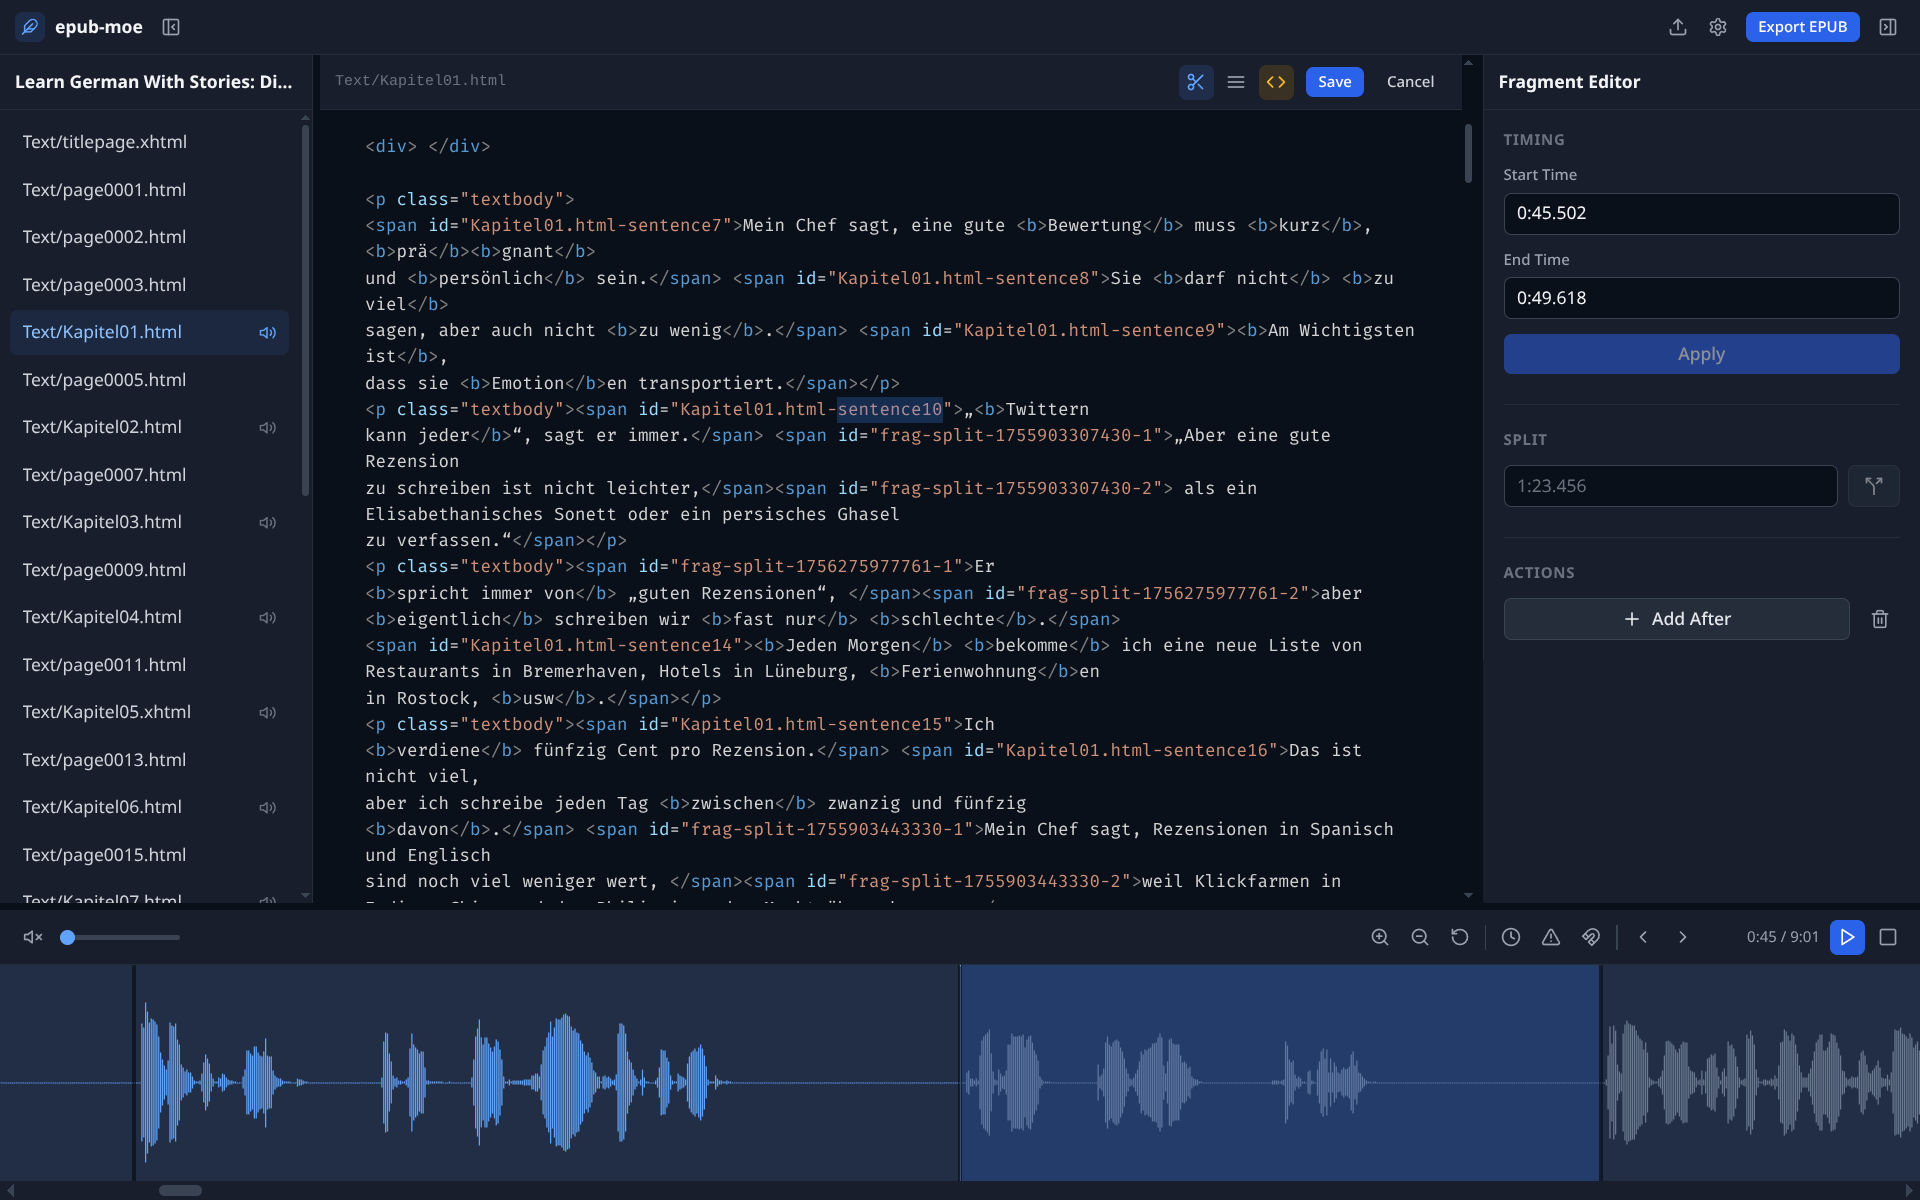
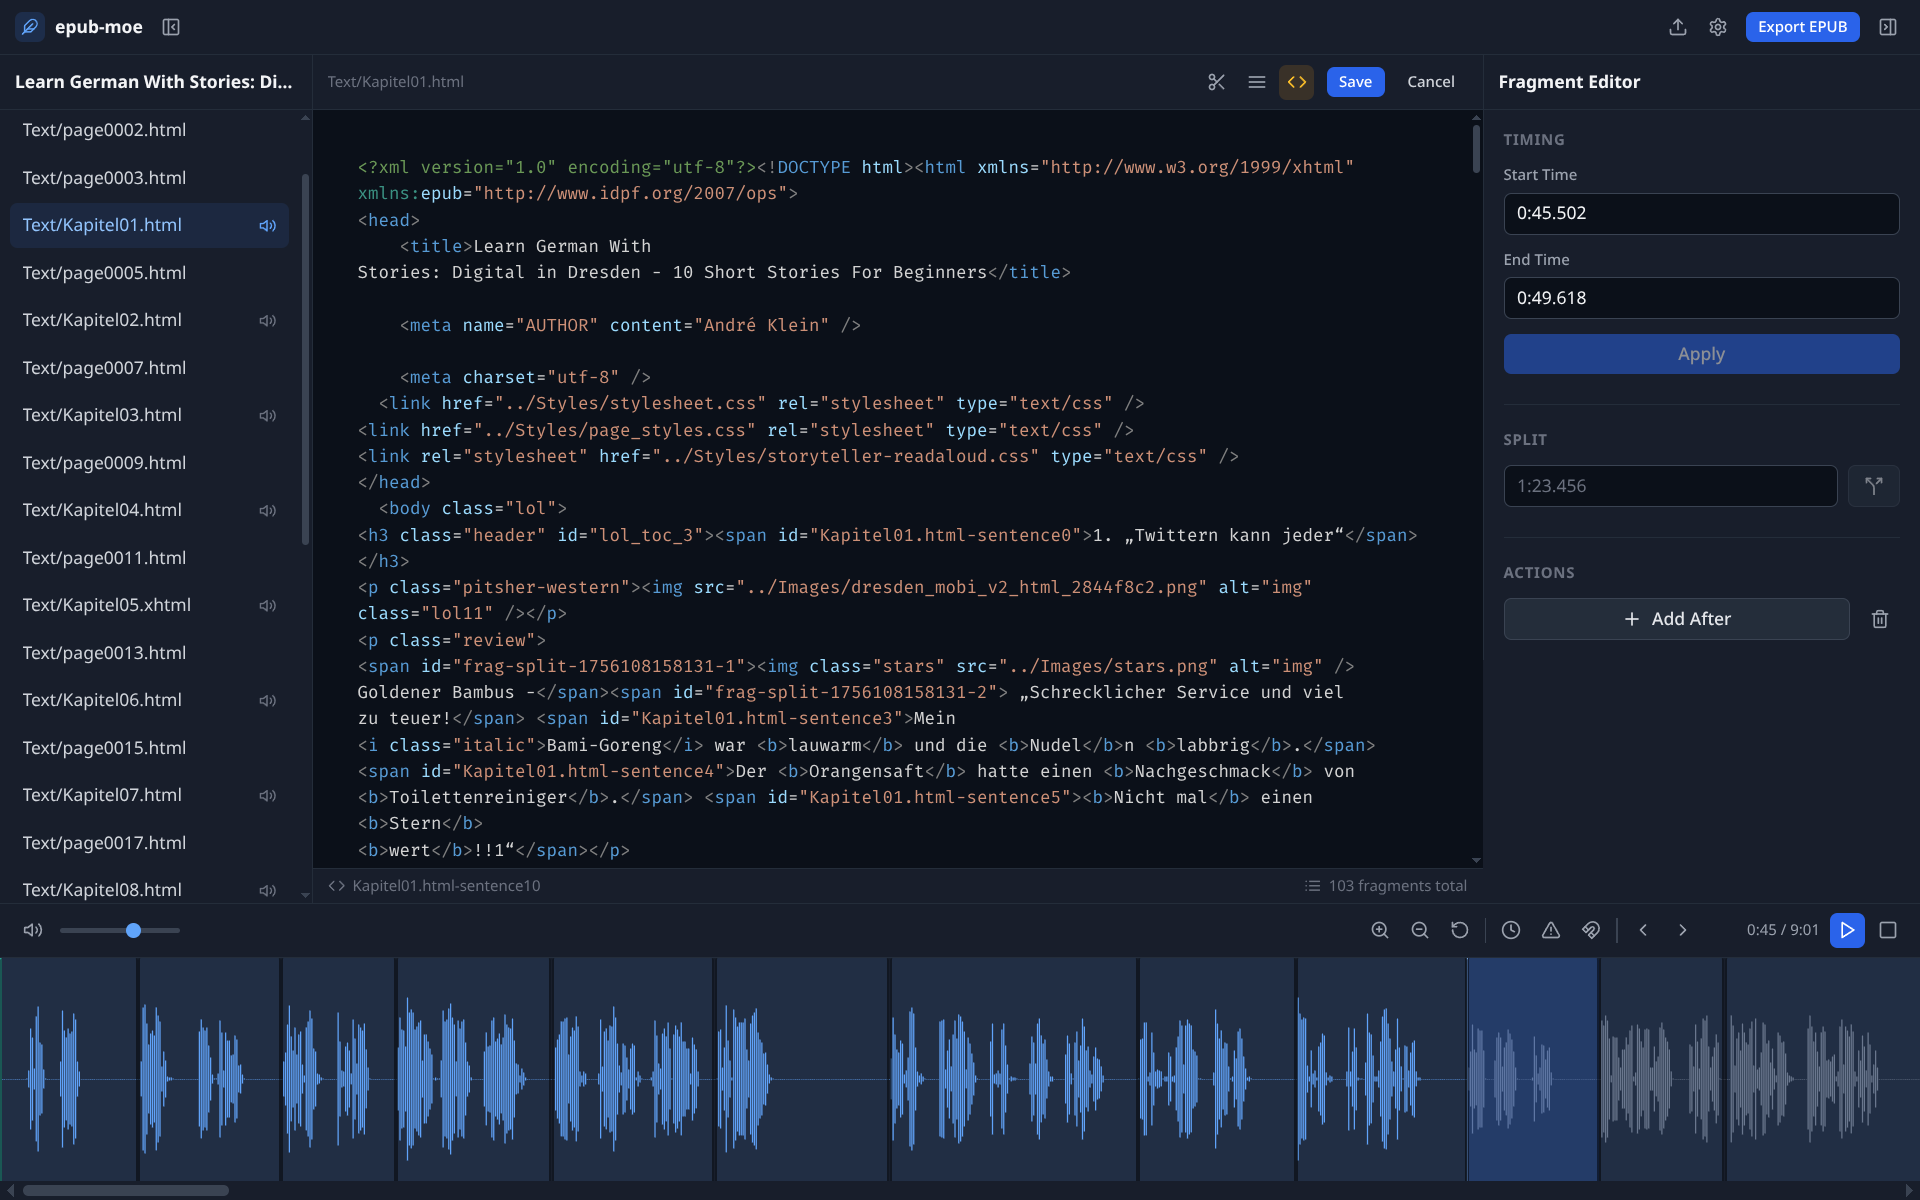
docs: screenshots

diff --git a/readme.md b/readme.md
@@ -134,13 +134,10 @@ npm run test:playwright
 - **Ctrl/Cmd + `0`**: Reset zoom to 100%
 - Zoom shortcuts also work while typing; playback, navigation, and cut-tool shortcuts are disabled while the HTML editor is active or when typing in a text field
 
-## Screenshots
+## Additional Screenshots
 
-### Upload Screen
-![Upload Interface](screenshots/upload.png)
-
-### Main Workspace
-![Four Panel Layout](screenshots/main-workspace.png)
+### Settings
+![Upload Interface](screenshots/settings.png)
 
 ### HTML Editor
 ![Inline Editing](screenshots/html-editor.png)
